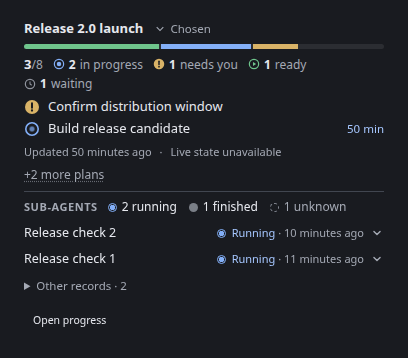
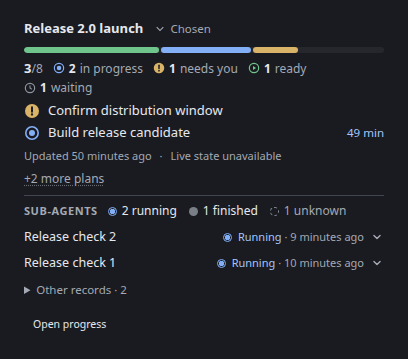
chore(release): prepare v1.1.0
Raise the package, source and compiled versions to 1.1.0, add the 1.1.0
changelog entry and the curated release notes, and refresh the README
images in the dark theme with an animated dependency map as the lead
image.

diff --git a/build/service/main.js b/build/service/main.js
@@ -25999,7 +25999,7 @@ var surfaceHostMessageSchema = exports_external.discriminatedUnion("type", [
 var surfaceResizeAnswerSchema = exports_external.object({ width: dimension, height: dimension });
 var surfaceClipboardAnswerSchema = exports_external.object({ text: exports_external.string().max(SURFACE_TEXT_MAX) });
 // shared/release.ts
-var RELEASE = "1.0.0";
+var RELEASE = "1.1.0";
 
 // service/extension-updates.ts
 var OFFICIAL_MANIFEST = "https://api.github.com/repos/Phototonic/openchamber-progress/contents/package.json?ref=main";

diff --git a/build/setup/main.js b/build/setup/main.js
@@ -3884,7 +3884,7 @@ function lifecycleInner(action, targets, payload, testBoundary) {
 }
 
 // shared/release.ts
-var RELEASE = "1.0.0";
+var RELEASE = "1.1.0";
 
 // setup/cli.ts
 try {

diff --git a/shared/release.ts b/shared/release.ts
@@ -1,2 +1,2 @@
 /** Package release is independent of the frozen protocol/schema version. */
-export const RELEASE = '1.0.0';
+export const RELEASE = '1.1.0';

diff --git a/CHANGELOG.md b/CHANGELOG.md
@@ -4,6 +4,35 @@ All notable changes to this project are documented in this file. The format is b
 
 ## [Unreleased]
 
+## [1.1.0] - 2026-11-10
+
+A roomier dependency map and quieter sub-agent warnings. Run storage moves to format 2; see Changed for the one-way upgrade.
+
+### Added
+
+- Dependency map arrows show the reported state of a dependency in the rail and on the board: travelling beads on an arrow from a prerequisite reported working, and a static warning-coloured line with a stop bar from an explicitly blocked one. Motion stops with capture off, a hidden frame, reduced motion, more than 300 arrows, more than 24 moving arrows or zoom below 50%. This replaces the map's earlier no-animation contract (#73).
+- Sub-agent recording gaps are dated. The run store records when a gap was last detected; a gap under 24 hours old and not dismissed raises attention, and **Dismiss warning** quiets it for the whole store through `POST /v1/subagent-runs/dismiss-loss`, fenced by the detection sequence so a newer gap is never dismissed unseen. Reads add `capture.lossNotice` without changing protocol or schema versions (#70).
+- A **Partial** cue beside the Sub-agents counts on the rail and board holds the routine coverage notes and the Load more history action in an inline disclosure. Notes about something unavailable or failing right now stay visible lines; Work Status keeps its single short line (#69).
+- The dependency map's selection clears with a background click or Escape while keeping the panned view (#61), and its keys, definitions and qualifications sit in a collapsible **Map help** disclosure (#63).
+- Curated, named GitHub releases: the publisher reads `release-notes/<version>.md` at the release commit, names the release `Agent Progress v<version>: <headline>` and places those notes ahead of GitHub's generated list. Portable CI requires the file when a change raises the package version.
+- Change proposals under `openspec/`, with the first capability spec, `subagent-loss-notices`. The guides in `docs/` remain the contract of record.
+- A native rehearsal test of the 1.0.0 upgrade, reload and rollback on an isolated OpenCode runtime, a test that upgrades a store created by the released 1.0.0, and a recorded desktop rehearsal on an isolated OpenChamber 2.7.0 host (#72, #74).
+
+### Changed
+
+- **Run storage format 2, a one-way upgrade.** Companion activation migrates the store in one transaction; reads never migrate. An existing recording gap becomes undated. Older run-aware versions refuse the upgraded store, and an already-running older companion must be reloaded. `docs/setup.md` and `docs/compatibility.md` describe the boundary (#70).
+- The fullscreen board uses up to 2400 px. On a wide board the Selected task inspector is a panel over the map's right edge shown only while a task is selected, selection keeps the card visible, and Fit all stops at 100% (#68).
+- The segmented progress bar follows the look of the host kit's progress bar: a slimmer track, pill-shaped segments, and a success-coloured count with a done mark when every task is done and none are skipped (#67).
+- The recording-gap note reads "Some run information wasn't recorded.", because the flag is also set for bounded payloads, capacity limits and dropped claims.
+- Long featured-plan titles in Work Status wrap to the available width, with the picker below when needed (#62).
+- The extension SDK pin is 2.7.0, and native runtime tests accept later Node 24.x and OpenCode 2.x releases (#64, #65). CI also runs on the newest Node 24, runs the SDK guest check and cancels superseded runs (#66).
+
+### Fixed
+
+- A store whose run storage format is newer than the installed version supports is reported as incompatible ("Progress data needs an update") with setup reachable, not as a service that may still be starting. Run storage is classified read-only on admission; a companion install or update against an unsupported store is refused before anything changes, and the capture-disabling fallback checks and writes in one transaction (#75).
+- The older activation-only format-1 run storage no longer fails the health check; it is admitted so its companion can be updated and migrate it (#75).
+- Keyboard focus moves to the surviving cue or the Sub-agents heading when a background update removes a focused coverage control (#69).
+
 ## [1.0.0] - 2026-11-06
 
 The first major release: a calmer, at-a-glance progress experience with an interactive dependency map.
@@ -161,7 +190,8 @@ The first major release: a calmer, at-a-glance progress experience with an inter
 
 Baseline before automated releases; see the repository history.
 
-[Unreleased]: https://github.com/Phototonic/openchamber-progress/compare/v1.0.0...HEAD
+[Unreleased]: https://github.com/Phototonic/openchamber-progress/compare/v1.1.0...HEAD
+[1.1.0]: https://github.com/Phototonic/openchamber-progress/compare/v1.0.0...v1.1.0
 [1.0.0]: https://github.com/Phototonic/openchamber-progress/compare/v0.7.0...v1.0.0
 [0.7.0]: https://github.com/Phototonic/openchamber-progress/compare/v0.6.1...v0.7.0
 [0.6.1]: https://github.com/Phototonic/openchamber-progress/compare/v0.6.0...v0.6.1

diff --git a/release-notes/1.1.0.md b/release-notes/1.1.0.md
@@ -1,0 +1,29 @@
+# A roomier dependency map and quieter sub-agent warnings
+
+## New
+
+- **Dependency map: arrows show what is working and what is blocked.** An arrow from a task reported as working carries blue beads that travel toward the task waiting on it, and an arrow from a blocked task turns into a warning-coloured line with a stop bar. You can see where a plan is moving and where it is stuck without opening a single card. Motion pauses when capture is off, when the view is hidden, on very large plans, and when your system asks for reduced motion.
+- **Board: the map uses the width of a wide screen.** The board is no longer held to a narrow centre column, so a plan that used to fit at about a third of its size is now readable. Task details open as a panel over the map's right edge only while a task is selected, and the map keeps the selected card in view.
+- **Sub-agents: one quiet cue replaces the standing warnings.** Routine notes about partial coverage used to sit under Sub-agents as orange lines almost all the time. They now live behind a small **Partial** badge beside the counts, which opens the full notes and the Load more history action in place. Notes about something that is broken right now still show on their own line.
+- **Sub-agents: recording gaps are dated and can be dismissed.** The note about runs that were not recorded used to stay forever after a single failure. It now says when a gap was last detected, turns the badge orange only for a gap from the last 24 hours, and offers **Dismiss warning**. Older and dismissed gaps stay listed with their date, so the counts are never presented as complete when they are not.
+- Dependency map: click the empty background or press Escape to clear the selected card and its highlights. The view stays where you left it.
+- Dependency map: the keys, definitions and caveats moved into a **Map help** section you can open and close, so the map starts with more room.
+
+## Improvements
+
+- Progress bar: the segmented bar follows the look of OpenChamber's own progress bar, with a slimmer track and rounded segments. A plan with every task done shows its count in the success colour with a done mark.
+- Board: on a wide screen, Fit all stops at 100%, so a small plan is not blown up past its natural size.
+- Work Status: a long plan title wraps to use the available width, and the plan picker moves below it when there is no room beside it.
+- Sub-agents: if you move by keyboard and a background update removes the control you were on, focus moves to the nearest control that is still there.
+
+## Fixes
+
+- Setup: when the installed version meets progress data saved by a newer version, the views now say "Progress data needs an update" and keep Setup reachable. They used to say the service might still be starting, which retrying could never fix.
+- Setup: installing or updating the companion is refused up front when the saved data is in a format the installed version does not support, and nothing is changed. Capture is no longer switched off as a side effect.
+- Setup: progress data from an early pre-release build, which only the companion can upgrade, no longer blocks the views or the companion update that upgrades it.
+
+## Misc
+
+- **Upgrading from 1.0.0: restart OpenCode after updating the companion, and note that this step is one-way.** The first time the updated companion loads, it upgrades the saved sub-agent run data to a new format. Plans, history and recorded runs are kept. Nothing is upgraded until OpenCode loads the new companion, so the views keep working in between. After the upgrade, version 1.0.0 can no longer read that data: its views show "Progress service is not responding" until you install 1.1.0 or later again. Restart any OpenCode instance that still has the older companion loaded. The setup guide has the details.
+- A recording gap from before the update has no known date. It is listed as "This happened before the update; the date is unknown." and does not raise the warning.
+- Built against the extension SDK 2.7.0. The upgrade from 1.0.0 and the return to 1.0.0 were rehearsed on an isolated OpenChamber 2.7.0 desktop host with OpenCode 2.2.6; the compatibility guide records what was and was not covered.

diff --git a/README.md b/README.md
@@ -10,13 +10,13 @@
 Agent Progress is an [OpenChamber](https://github.com/openchamber/openchamber) extension that turns your agents' plans into a calm, live progress view. One glance tells you what's done, what's running, what's blocked and what needs you. When you want more, the detail is one click away.
 
 <p align="center">
-  <img src="docs/images/readme/board.png" alt="The dependency map on the fullscreen board: task cards joined by prerequisite arrows, with reported working, ready, blocked and unlocks-next counts and the selected task's prerequisites" width="860">
+  <img src="docs/images/readme/map-arrows.gif" alt="Animation of the dependency map on the fullscreen board: task cards joined by prerequisite arrows, under reported working, ready, explicitly blocked and unlocks-next counts. Small blue beads move steadily along the arrows from the two tasks reported working to the tasks waiting on them; the arrow from the explicitly blocked task stays still, in the warning colour, with a stop bar before its arrowhead" width="860">
 </p>
 
 ## Why you'll like it
 
 - **At a glance, then in depth.** A single grouped list, *Now*, *Needs you*, *Up next*, with finished work folded away. Expand any task for its reason, next step, prerequisites and who's on it.
-- **See how the work connects.** Plans with recorded prerequisites open on an interactive dependency map, with pan, zoom, keyboard navigation and a clear *Ready* / *Unlocks next* view.
+- **See how the work connects.** Plans with recorded prerequisites open on an interactive dependency map, with pan, zoom, keyboard navigation and a clear *Ready* / *Unlocks next* view. Blue beads travel along the arrows from a task reported working to the tasks waiting on it, and an arrow from a blocked task ends in a stop bar.
 - **Know when it's your turn.** Blockers that need a person rise to the top, with the reason and how long they've been waiting.
 - **Watch your sub-agents.** Running sub-agents get one line each, and everything else stays tucked away until you ask.
 - **Hand off in one click.** Copy a ready-made progress update or handoff summary from any plan.
